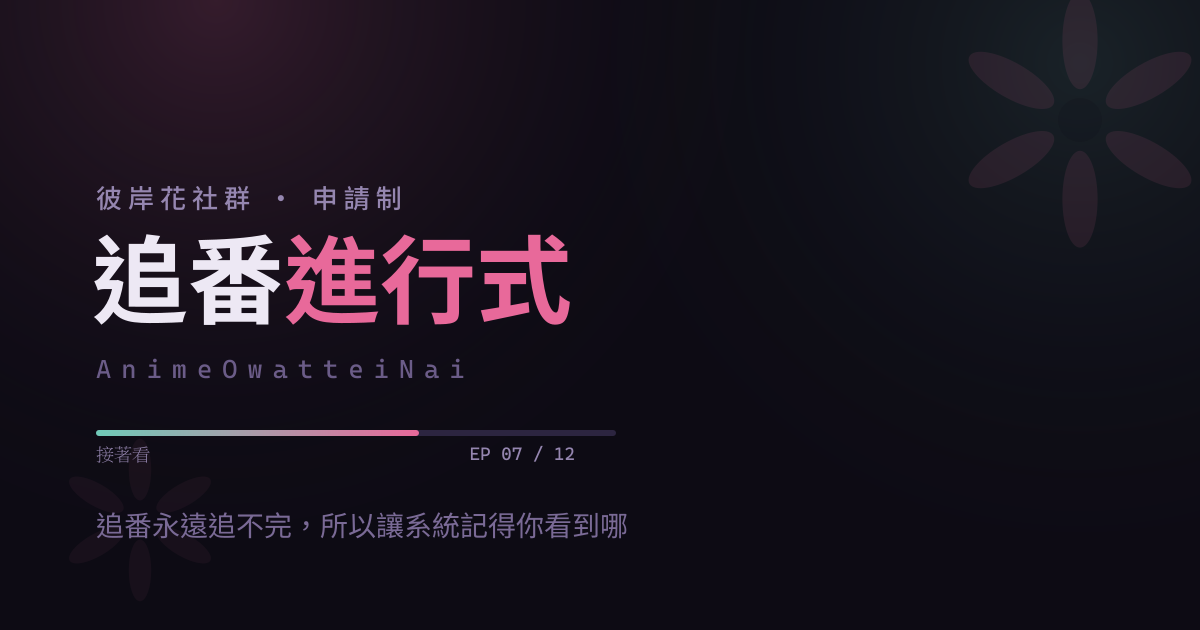
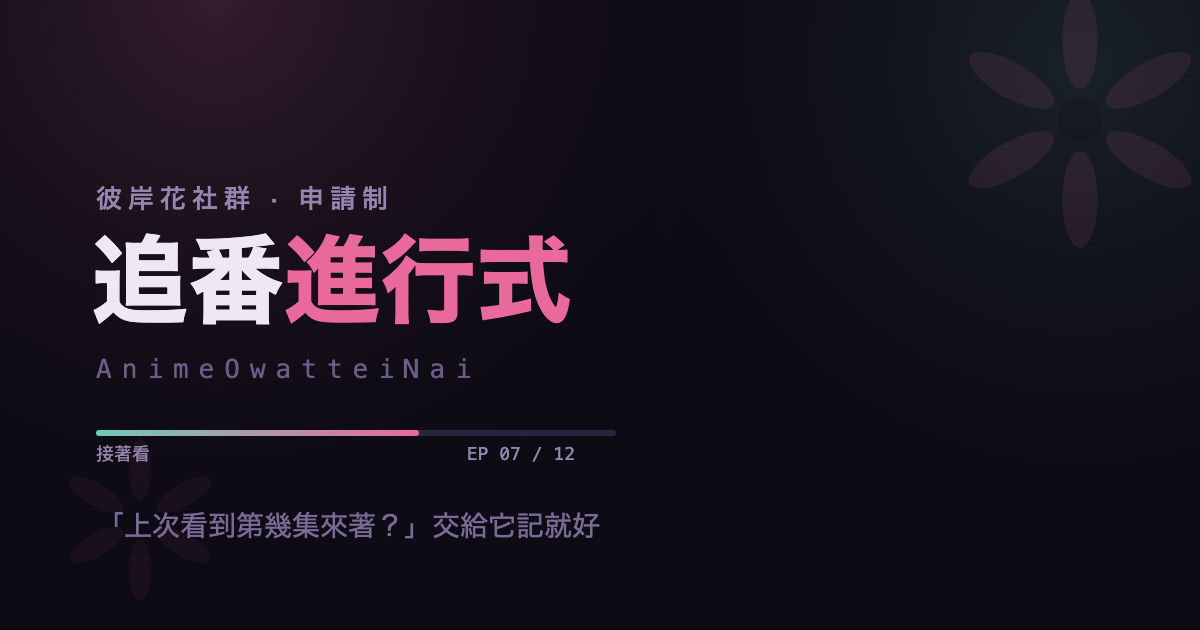
feat(seo): 換掉 AI 味標語並強化 SEO
- 標語改為「上次看到第幾集來著？」交給它記就好（landing / footer / meta / og-image 同步，og-image.png 重新輸出）
- meta description 改為具體描述，補 og:site_name、og:image 尺寸、JSON-LD WebApplication
- 新增 sitemap.xml，robots.txt 加上 Sitemap 指向

diff --git a/index.html b/index.html
@@ -4,20 +4,35 @@
     <meta charset="UTF-8" />
     <meta name="viewport" content="width=device-width, initial-scale=1.0" />
     <meta name="color-scheme" content="dark light" />
-    <title>追番進行式 · AnimeOwatteiNai</title>
-    <meta name="description" content="追番永遠追不完，所以讓系統記得你看到哪" />
+    <title>追番進行式 AnimeOwatteiNai｜記錄動畫看到第幾集</title>
+    <meta name="description" content="彼岸花 Discord 社群的申請制追番工具。記錄每部動畫看到第幾集、下一集從哪個入口接著看，一鍵標記看完。" />
     <link rel="canonical" href="https://aon.tinyyana.com" />
     <meta property="og:type" content="website" />
     <meta property="og:url" content="https://aon.tinyyana.com" />
-    <meta property="og:title" content="追番進行式 · AnimeOwatteiNai" />
-    <meta property="og:description" content="追番永遠追不完，所以讓系統記得你看到哪" />
+    <meta property="og:site_name" content="追番進行式" />
+    <meta property="og:title" content="追番進行式 AnimeOwatteiNai" />
+    <meta property="og:description" content="記錄每部動畫看到第幾集、下一集從哪個入口接著看。彼岸花社群限定。" />
     <meta property="og:image" content="https://aon.tinyyana.com/og-image.png" />
+    <meta property="og:image:width" content="1200" />
+    <meta property="og:image:height" content="630" />
     <meta property="og:locale" content="zh_TW" />
     <meta name="twitter:card" content="summary_large_image" />
-    <meta name="twitter:title" content="追番進行式 · AnimeOwatteiNai" />
-    <meta name="twitter:description" content="追番永遠追不完，所以讓系統記得你看到哪" />
+    <meta name="twitter:title" content="追番進行式 AnimeOwatteiNai" />
+    <meta name="twitter:description" content="記錄每部動畫看到第幾集、下一集從哪個入口接著看。彼岸花社群限定。" />
     <meta name="twitter:image" content="https://aon.tinyyana.com/og-image.png" />
     <link rel="icon" href="/logo.png" type="image/png" />
+    <script type="application/ld+json">
+      {
+        "@context": "https://schema.org",
+        "@type": "WebApplication",
+        "name": "追番進行式 AnimeOwatteiNai",
+        "url": "https://aon.tinyyana.com",
+        "applicationCategory": "EntertainmentApplication",
+        "operatingSystem": "Web",
+        "inLanguage": "zh-Hant",
+        "description": "彼岸花 Discord 社群的申請制追番工具。記錄每部動畫看到第幾集、下一集從哪個入口接著看。"
+      }
+    </script>
     <!-- ponytail: anti-FOUC — must run before first paint to avoid color flash -->
     <script>
       (function(){var t=localStorage.getItem("aon-theme"),d=t==="dark"||(!t&&!matchMedia("(prefers-color-scheme:light)").matches);document.documentElement.dataset.theme=d?"dark":"light";})();

diff --git a/src/app/routes/LandingPage.tsx b/src/app/routes/LandingPage.tsx
@@ -96,8 +96,8 @@ export function LandingPage() {
       <p data-hero className="mt-2 font-mono text-xs tracking-[0.25em] text-muted">AnimeOwatteiNai</p>
 
       <p data-hero className="mt-7 max-w-sm text-base leading-relaxed text-muted">
-        追番永遠追不完，<br className="sm:hidden" />
-        所以讓系統記得你看到哪。
+        「上次看到第幾集來著？」<br className="sm:hidden" />
+        這種事交給它記就好。
       </p>
 
       {/* Signature progress motif — a glimpse of what the app is for */}

diff --git a/src/app/components/AppLayout.tsx b/src/app/components/AppLayout.tsx
@@ -126,7 +126,7 @@ export function AppLayout() {
       </main>
 
       <footer className="border-t border-border/50 py-5 flex items-center justify-between gap-4 flex-wrap">
-        <p className="section-label">追番永遠追不完，所以讓系統記得你看到哪</p>
+        <p className="section-label">番還沒看完，慢慢來</p>
         <div className="flex flex-wrap items-center gap-x-4 gap-y-2">
           <a href="/terms" className="section-label transition-colors hover:text-text">服務條款</a>
           <FooterIconLink href="https://github.com/TinyYana/anime-owatteinai" label="GitHub">